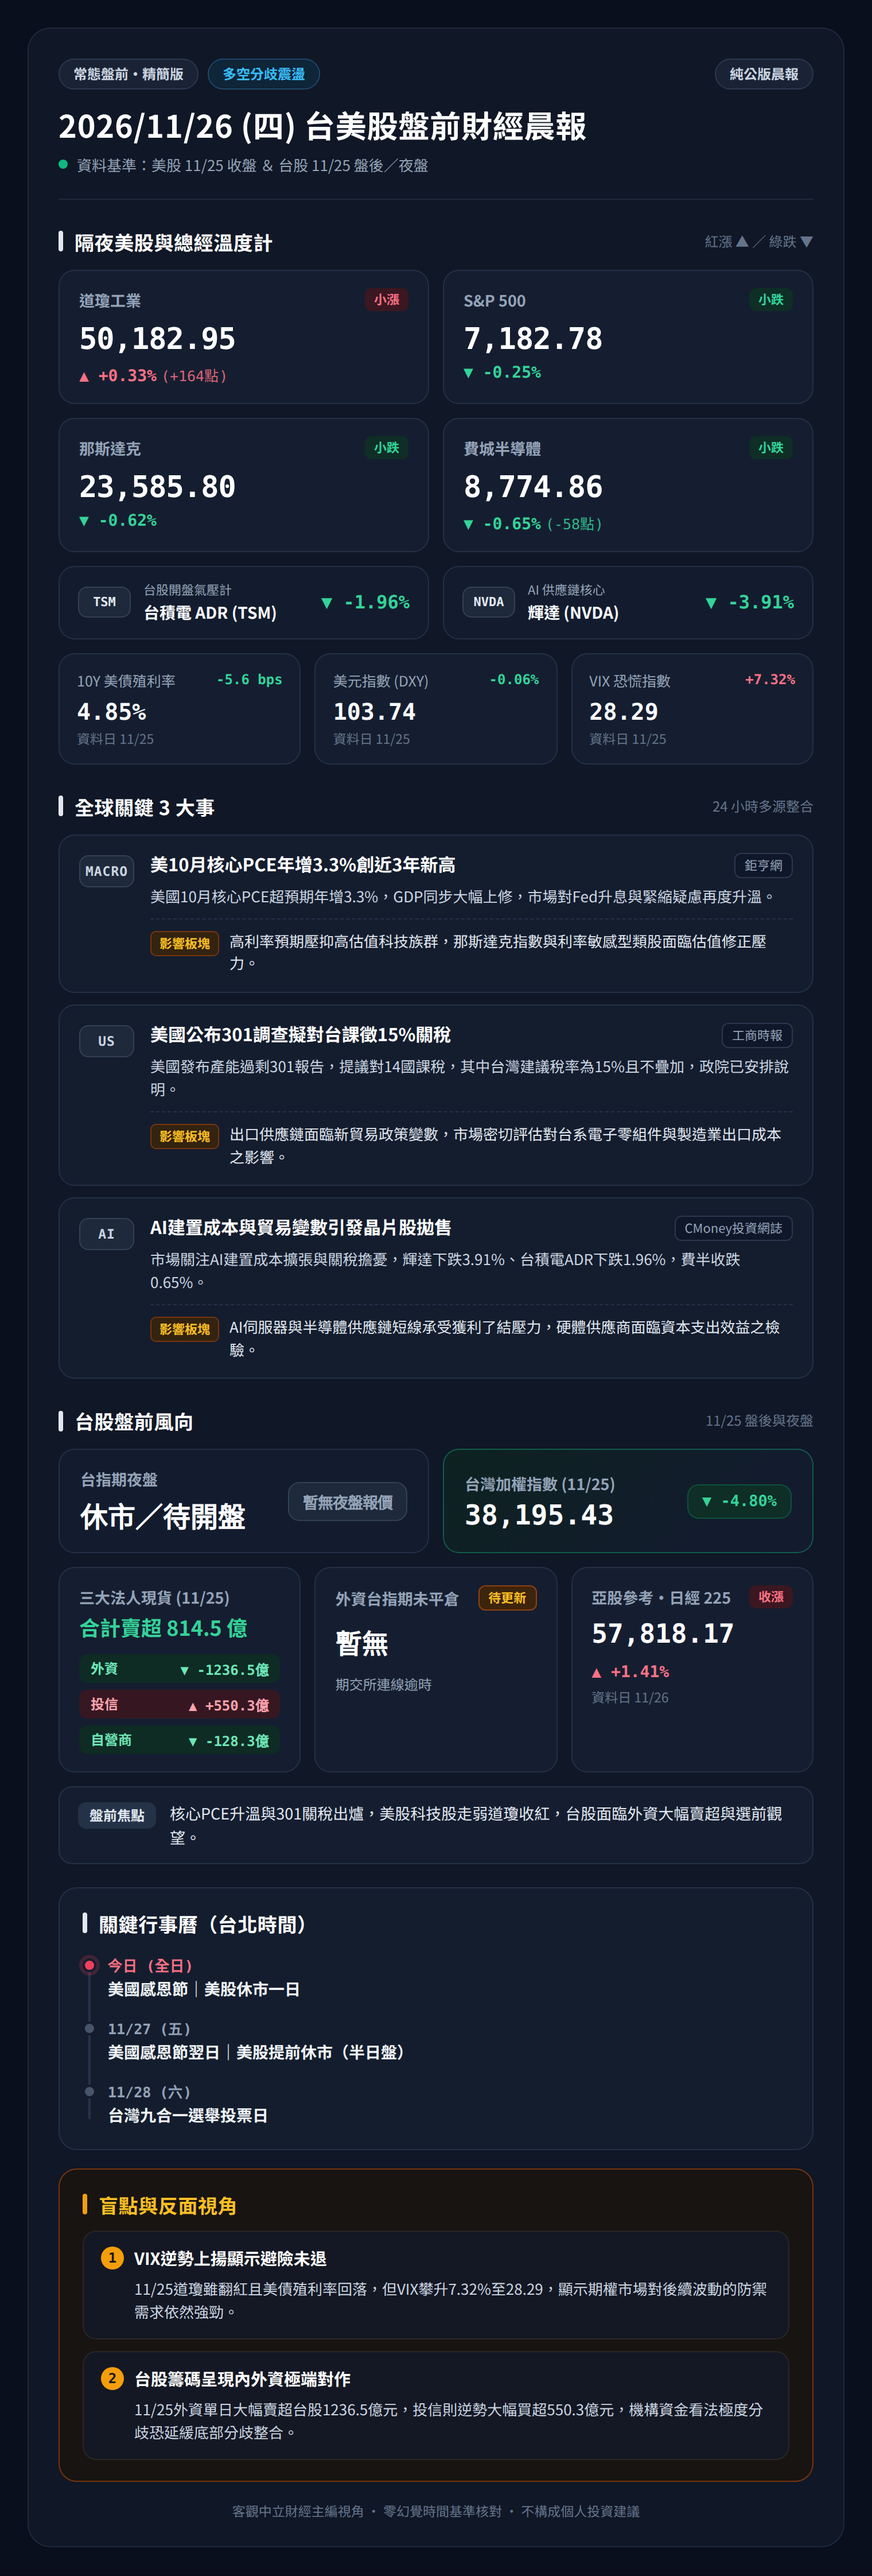
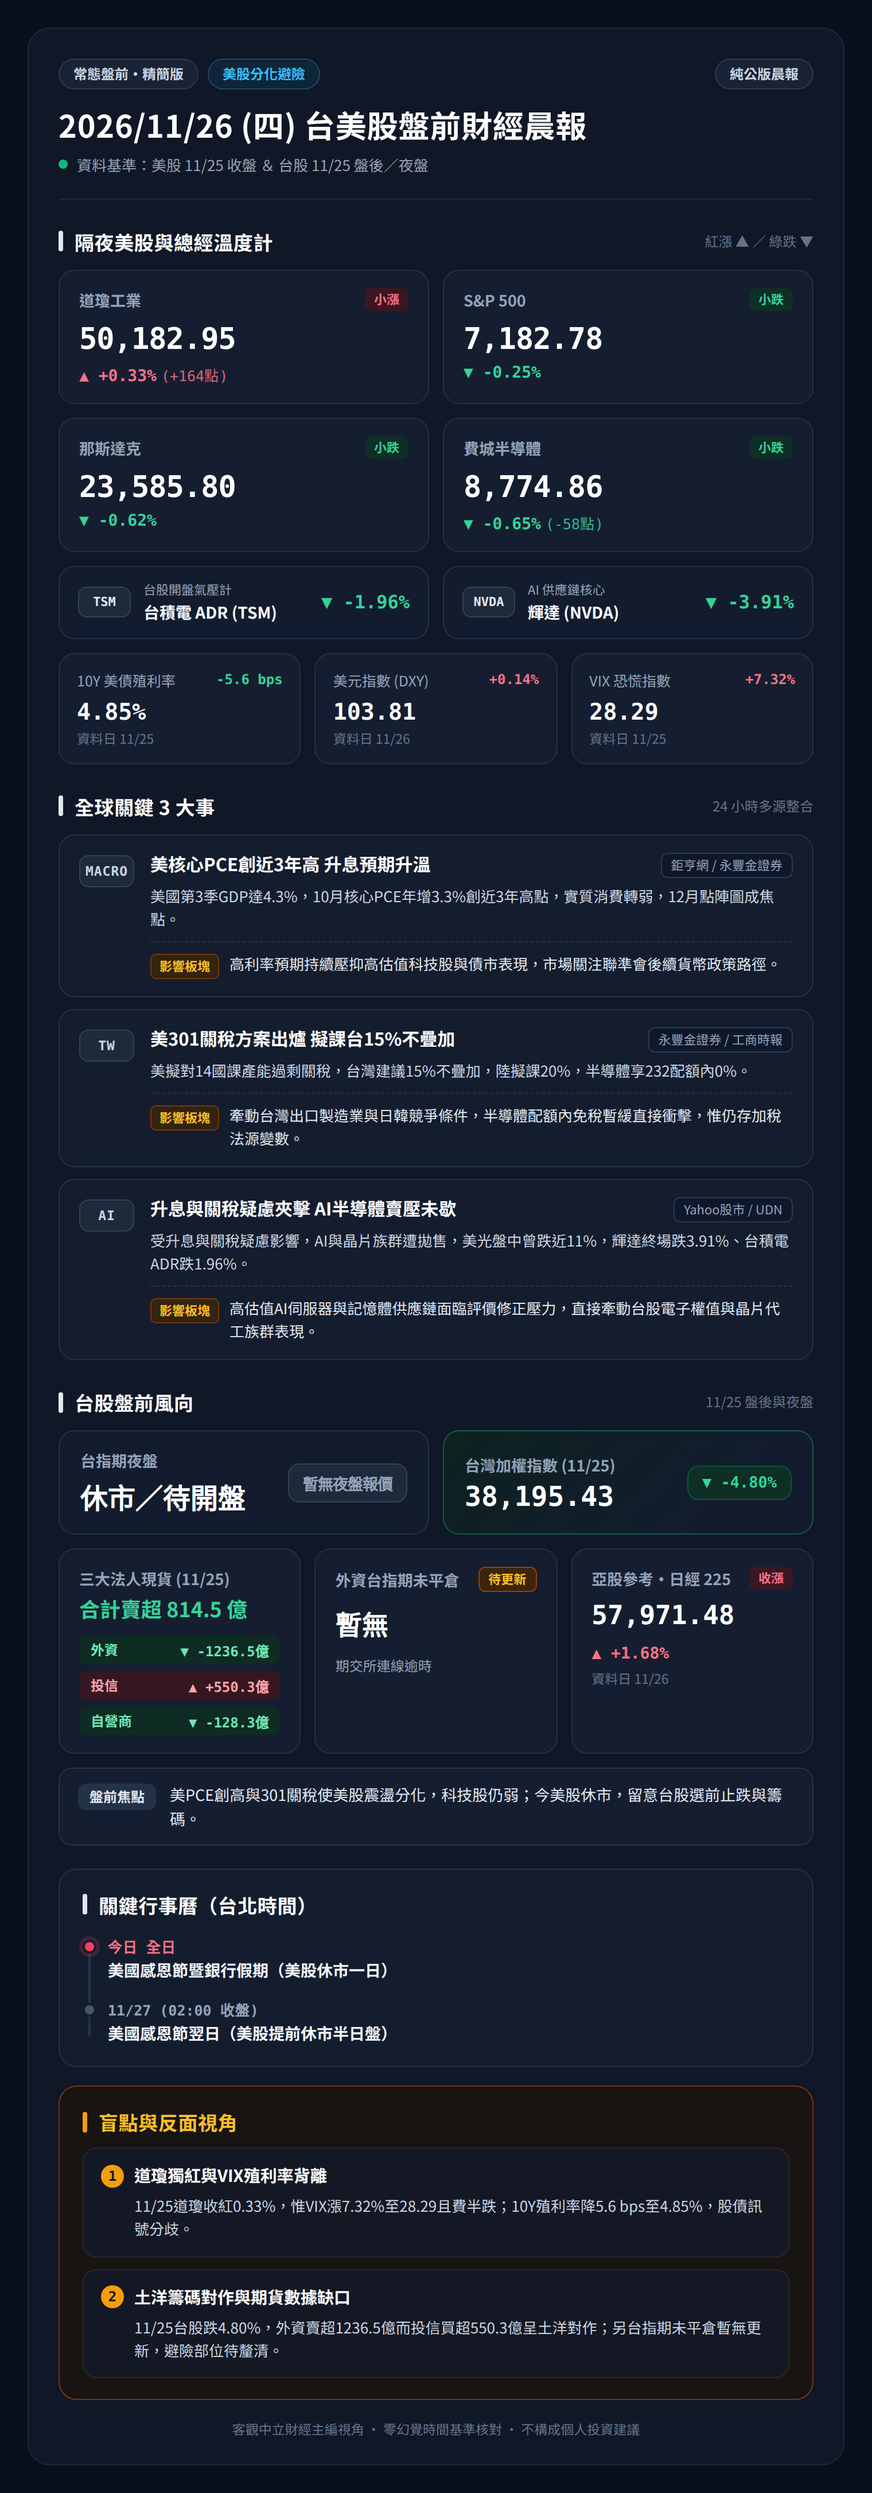
Update daily brief 2026-11-26

diff --git a/docs/index.html b/docs/index.html
@@ -272,7 +272,7 @@
 <div id="brief-card"></div>
 
 <script>
-  const d = {"title_date": "2026/11/26 (四)", "mode_label": "常態盤前・精簡版", "is_deep": false, "data_basis": "美股 11/25 收盤 ＆ 台股 11/25 盤後／夜盤", "tw_date": "11/25", "regime_tag": "多空分歧震盪", "premarket_focus": "核心PCE升溫與301關稅出爐，美股科技股走弱道瓊收紅，台股面臨外資大幅賣超與選前觀望。", "us_indices": [{"name": "道瓊工業", "value": "50,182.95", "change": "+0.33%", "pts": "(+164點)", "status": "小漲", "trend": "up", "is_extreme": false, "pct_num": 0.3283771920610628, "date": "11/25"}, {"name": "S&P 500", "value": "7,182.78", "change": "-0.25%", "pts": "", "status": "小跌", "trend": "down", "is_extreme": false, "pct_num": 0.2542678815435381, "date": "11/25"}, {"name": "那斯達克", "value": "23,585.80", "change": "-0.62%", "pts": "", "status": "小跌", "trend": "down", "is_extreme": false, "pct_num": 0.6224791327410149, "date": "11/25"}, {"name": "費城半導體", "value": "8,774.86", "change": "-0.65%", "pts": "(-58點)", "status": "小跌", "trend": "down", "is_extreme": false, "pct_num": 0.6525637737050666, "date": "11/25"}], "barometer": {"tsm": {"name": "台積電 ADR (TSM)", "value": "342.34", "change": "-1.96%", "pts": "", "status": "走弱", "trend": "down", "is_extreme": false, "pct_num": 1.964494739213671, "date": "11/25"}, "nvda": {"name": "輝達 (NVDA)", "value": "149.30", "change": "-3.91%", "pts": "", "status": "重挫", "trend": "down", "is_extreme": true, "pct_num": 3.9129885699515974, "date": "11/25"}}, "macro": [{"name": "10Y 美債殖利率", "value": "4.85%", "change": "-5.6 bps", "pts": "", "status": "走弱", "trend": "down", "is_extreme": false, "pct_num": 1.1419200261210316, "date": "11/25"}, {"name": "美元指數 (DXY)", "value": "103.74", "change": "-0.06%", "pts": "", "status": "小跌", "trend": "down", "is_extreme": false, "pct_num": 0.06357216476964386, "date": "11/25"}, {"name": "VIX 恐慌指數", "value": "28.29", "change": "+7.32%", "pts": "", "status": "大漲", "trend": "up", "is_extreme": true, "pct_num": 7.3217005329577685, "date": "11/25"}], "tw_night": {"value": "休市／待開盤", "unit": "", "badge": "暫無夜盤報價", "trend": "flat", "is_extreme": false}, "tw_index": {"name": "台灣加權指數", "value": "38,195.43", "change": "-4.80%", "pts": "(-1,927點)", "status": "重挫", "trend": "down", "is_extreme": true, "pct_num": 4.80261450278747, "date": "11/25"}, "nikkei": {"name": "日經 225", "value": "57,818.17", "change": "+1.41%", "pts": "", "status": "收漲", "trend": "up", "is_extreme": false, "pct_num": 1.4147129405840024, "date": "11/26"}, "tw_spot": {"headline": "合計賣超 814.5 億", "trend": "down", "date": "11/25", "breakdown": [{"label": "外資", "value": "-1236.5億", "trend": "down"}, {"label": "投信", "value": "+550.3億", "trend": "up"}, {"label": "自營商", "value": "-128.3億", "trend": "down"}]}, "tw_oi": {"title": "外資台指期未平倉", "value": "暫無", "unit": "", "badge": "待更新", "is_alert": false, "note": "期交所連線逾時", "raw_net": 0}, "top_news": [{"tag": "MACRO", "source": "鉅亨網", "title": "美10月核心PCE年增3.3%創近3年新高", "fact": "美國10月核心PCE超預期年增3.3%，GDP同步大幅上修，市場對Fed升息與緊縮疑慮再度升溫。", "impact": "高利率預期壓抑高估值科技族群，那斯達克指數與利率敏感型類股面臨估值修正壓力。"}, {"tag": "US", "source": "工商時報", "title": "美國公布301調查擬對台課徵15%關稅", "fact": "美國發布產能過剩301報告，提議對14國課稅，其中台灣建議稅率為15%且不疊加，政院已安排說明。", "impact": "出口供應鏈面臨新貿易政策變數，市場密切評估對台系電子零組件與製造業出口成本之影響。"}, {"tag": "AI", "source": "CMoney投資網誌", "title": "AI建置成本與貿易變數引發晶片股拋售", "fact": "市場關注AI建置成本擴張與關稅擔憂，輝達下跌3.91%、台積電ADR下跌1.96%，費半收跌0.65%。", "impact": "AI伺服器與半導體供應鏈短線承受獲利了結壓力，硬體供應商面臨資本支出效益之檢驗。"}], "calendar_events": [{"time_label": "今日 (全日)", "title": "美國感恩節｜美股休市一日", "is_today": true}, {"time_label": "11/27 (五)", "title": "美國感恩節翌日｜美股提前休市（半日盤）", "is_today": false}, {"time_label": "11/28 (六)", "title": "台灣九合一選舉投票日", "is_today": false}], "blindspots": [{"title": "VIX逆勢上揚顯示避險未退", "detail": "11/25道瓊雖翻紅且美債殖利率回落，但VIX攀升7.32%至28.29，顯示期權市場對後續波動的防禦需求依然強勁。"}, {"title": "台股籌碼呈現內外資極端對作", "detail": "11/25外資單日大幅賣超台股1236.5億元，投信則逆勢大幅買超550.3億元，機構資金看法極度分歧恐延緩底部分歧整合。"}], "ai_fallback": false};
+  const d = {"title_date": "2026/11/26 (四)", "mode_label": "常態盤前・精簡版", "is_deep": false, "data_basis": "美股 11/25 收盤 ＆ 台股 11/25 盤後／夜盤", "tw_date": "11/25", "regime_tag": "美股分化避險", "premarket_focus": "美PCE創高與301關稅使美股震盪分化，科技股仍弱；今美股休市，留意台股選前止跌與籌碼。", "us_indices": [{"name": "道瓊工業", "value": "50,182.95", "change": "+0.33%", "pts": "(+164點)", "status": "小漲", "trend": "up", "is_extreme": false, "pct_num": 0.3283771920610628, "date": "11/25"}, {"name": "S&P 500", "value": "7,182.78", "change": "-0.25%", "pts": "", "status": "小跌", "trend": "down", "is_extreme": false, "pct_num": 0.2542678815435381, "date": "11/25"}, {"name": "那斯達克", "value": "23,585.80", "change": "-0.62%", "pts": "", "status": "小跌", "trend": "down", "is_extreme": false, "pct_num": 0.6224873621289493, "date": "11/25"}, {"name": "費城半導體", "value": "8,774.86", "change": "-0.65%", "pts": "(-58點)", "status": "小跌", "trend": "down", "is_extreme": false, "pct_num": 0.6525858866402491, "date": "11/25"}], "barometer": {"tsm": {"name": "台積電 ADR (TSM)", "value": "342.34", "change": "-1.96%", "pts": "", "status": "走弱", "trend": "down", "is_extreme": false, "pct_num": 1.964494739213671, "date": "11/25"}, "nvda": {"name": "輝達 (NVDA)", "value": "149.30", "change": "-3.91%", "pts": "", "status": "重挫", "trend": "down", "is_extreme": true, "pct_num": 3.9129885699515974, "date": "11/25"}}, "macro": [{"name": "10Y 美債殖利率", "value": "4.85%", "change": "-5.6 bps", "pts": "", "status": "走弱", "trend": "down", "is_extreme": false, "pct_num": 1.1419200261210316, "date": "11/25"}, {"name": "美元指數 (DXY)", "value": "103.81", "change": "+0.14%", "pts": "", "status": "小漲", "trend": "up", "is_extreme": false, "pct_num": 0.135043302904557, "date": "11/26"}, {"name": "VIX 恐慌指數", "value": "28.29", "change": "+7.32%", "pts": "", "status": "大漲", "trend": "up", "is_extreme": true, "pct_num": 7.3217005329577685, "date": "11/25"}], "tw_night": {"value": "休市／待開盤", "unit": "", "badge": "暫無夜盤報價", "trend": "flat", "is_extreme": false}, "tw_index": {"name": "台灣加權指數", "value": "38,195.43", "change": "-4.80%", "pts": "(-1,927點)", "status": "重挫", "trend": "down", "is_extreme": true, "pct_num": 4.80261450278747, "date": "11/25"}, "nikkei": {"name": "日經 225", "value": "57,971.48", "change": "+1.68%", "pts": "", "status": "收漲", "trend": "up", "is_extreme": false, "pct_num": 1.6836205611862987, "date": "11/26"}, "tw_spot": {"headline": "合計賣超 814.5 億", "trend": "down", "date": "11/25", "breakdown": [{"label": "外資", "value": "-1236.5億", "trend": "down"}, {"label": "投信", "value": "+550.3億", "trend": "up"}, {"label": "自營商", "value": "-128.3億", "trend": "down"}]}, "tw_oi": {"title": "外資台指期未平倉", "value": "暫無", "unit": "", "badge": "待更新", "is_alert": false, "note": "期交所連線逾時", "raw_net": 0}, "top_news": [{"tag": "MACRO", "source": "鉅亨網 / 永豐金證券", "title": "美核心PCE創近3年高 升息預期升溫", "fact": "美國第3季GDP達4.3%，10月核心PCE年增3.3%創近3年高點，實質消費轉弱，12月點陣圖成焦點。", "impact": "高利率預期持續壓抑高估值科技股與債市表現，市場關注聯準會後續貨幣政策路徑。"}, {"tag": "TW", "source": "永豐金證券 / 工商時報", "title": "美301關稅方案出爐 擬課台15%不疊加", "fact": "美擬對14國課產能過剩關稅，台灣建議15%不疊加，陸擬課20%，半導體享232配額內0%。", "impact": "牽動台灣出口製造業與日韓競爭條件，半導體配額內免稅暫緩直接衝擊，惟仍存加稅法源變數。"}, {"tag": "AI", "source": "Yahoo股市 / UDN", "title": "升息與關稅疑慮夾擊 AI半導體賣壓未歇", "fact": "受升息與關稅疑慮影響，AI與晶片族群遭拋售，美光盤中曾跌近11%，輝達終場跌3.91%、台積電ADR跌1.96%。", "impact": "高估值AI伺服器與記憶體供應鏈面臨評價修正壓力，直接牽動台股電子權值與晶片代工族群表現。"}], "calendar_events": [{"time_label": "今日 全日", "title": "美國感恩節暨銀行假期（美股休市一日）", "is_today": true}, {"time_label": "11/27 (02:00 收盤)", "title": "美國感恩節翌日（美股提前休市半日盤）", "is_today": false}], "blindspots": [{"title": "道瓊獨紅與VIX殖利率背離", "detail": "11/25道瓊收紅0.33%，惟VIX漲7.32%至28.29且費半跌；10Y殖利率降5.6 bps至4.85%，股債訊號分歧。"}, {"title": "土洋籌碼對作與期貨數據缺口", "detail": "11/25台股跌4.80%，外資賣超1236.5億而投信買超550.3億呈土洋對作；另台指期未平倉暫無更新，避險部位待釐清。"}], "ai_fallback": false};
   const arrow = t => t === 'up' ? '▲ ' : (t === 'down' ? '▼ ' : '');
   const extremeClass = item => item.is_extreme ? (item.trend === 'up' ? 'extreme-up' : 'extreme-down') : '';
 
